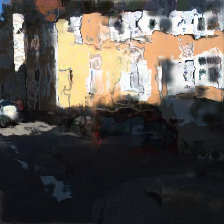
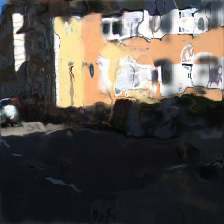
overfitting2

diff --git a/src/run_model.py b/src/run_model.py
@@ -29,7 +29,7 @@ BATCH_SIZE = 64
 DATA_DIR = "preprocess/prep_res"
 PRINT_EVERY = 1
 
-NUM_EPOCHS = 1000
+NUM_EPOCHS = 1500
 DROPOUT = 0.15
 INIT_LR = 1e-4
 is_local = False
@@ -116,6 +116,7 @@ def make_loaders(inputs, gold):
 
 def train(model, loss_fn, optimizer, train_data, val_data, num_epochs = 1):
     losses=[]
+    eval_losses=[]
     for epoch in range(num_epochs):
         print('Starting epoch %d / %d...' % (epoch + 1, num_epochs))
         model.train()
@@ -127,16 +128,18 @@ def train(model, loss_fn, optimizer, train_data, val_data, num_epochs = 1):
             
             loss = loss_fn(scores, y_var)
             losses.append(loss.data[0])
-            if (t + 1) % PRINT_EVERY == 0:
-                print('\ttraining: t = %d, loss = %.4f' % (t + 1, loss.data[0]))
-            if (t) % 50 == 0:
-                evaluate(model, val_data, loss_fn)
+            #if (t + 1) % PRINT_EVERY == 0:
+            print('\ttraining: t = %d, loss = %.4f' % (t + 1, loss.data[0]))
+            #if (t) % 50 == 0:
+            eval_loss = evaluate(model, val_data, loss_fn)
+            eval_losses.append(eval_loss)
 
             optimizer.zero_grad()
             (loss + oob_loss).backward()
             optimizer.step()
     
-    np.save('losses', np.array(losses))
+    np.save('losses2', np.array(losses))
+    np.save('eval_losses2', np.array(eval_losses))
 
 def evaluate(model, dev_data, loss_fn, save=False):
     print("Running evaluation...")
@@ -160,6 +163,7 @@ def evaluate(model, dev_data, loss_fn, save=False):
         total_loss += loss_fn(scores, y_var).data[0]
 
     print("Total eval loss: %.4f, Avg eval loss: %.4f" % (total_loss, total_loss / NUM_VAL))
+    return total_loss
 
 
 class L2Loss(torch.nn.Module):
